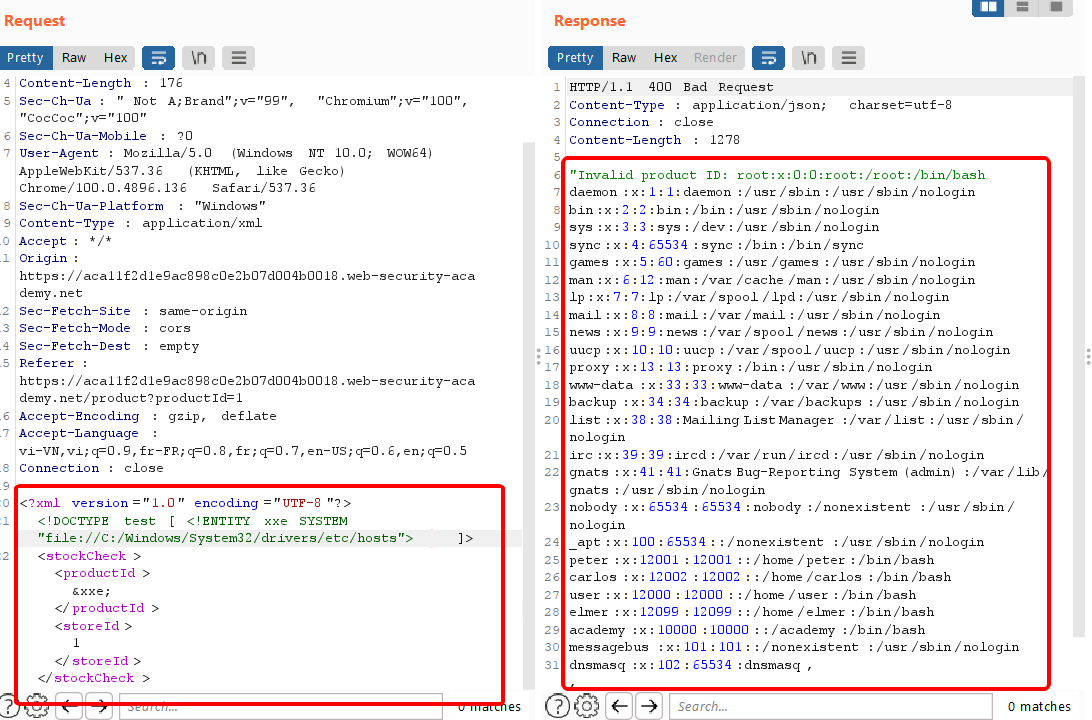
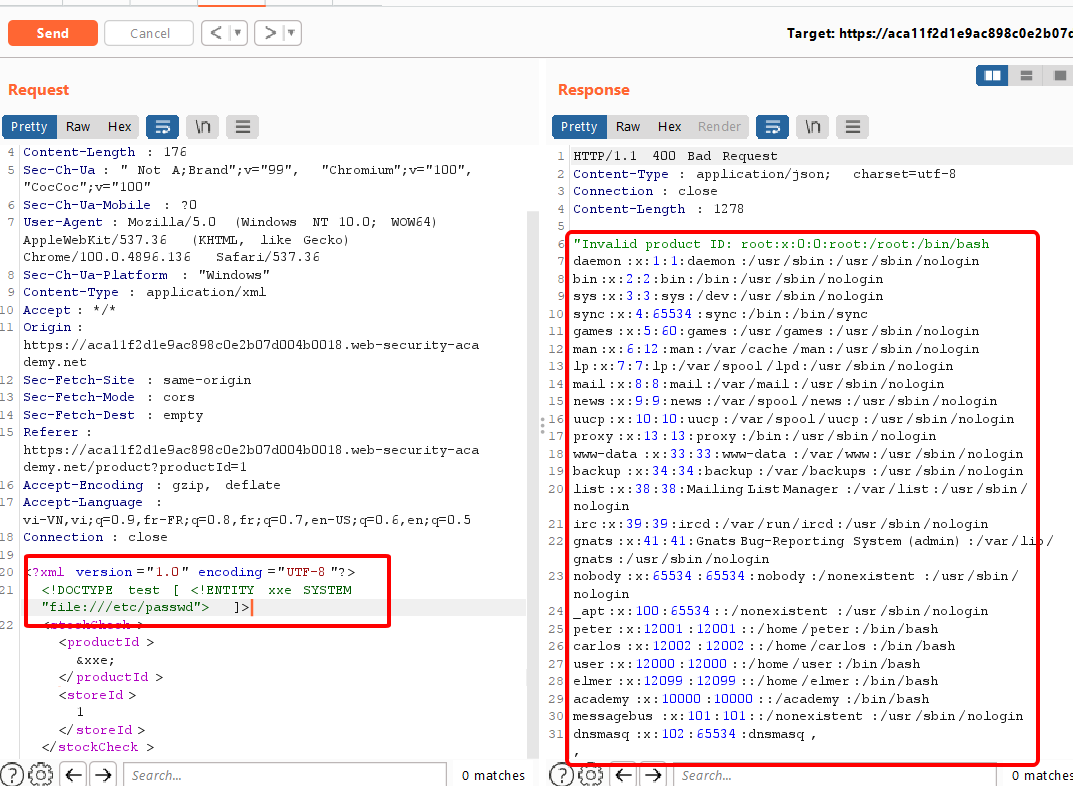
update lab xml

Changed region(s): [[0.0, 0.0, 1.0, 1.0], [0.3075, 0.1222, 0.4306, 0.1528], [0.3691, 0.275, 0.3998, 0.3056]]

diff --git a/readme.md b/readme.md
@@ -14,10 +14,11 @@ Mục lục:
 - Giả sử, tôi muốn kiểm tra số lượng hiện của 1 mặt hàng đang có trong kho của tôi. và kết quả ở hình dưới.
 ![Hình 1.](~/../img/1.png)
 
-- Giờ, tôi sẽ thử chèn thêm đoạn code sau `<!DOCTYPE test [ <!ENTITY xxe SYSTEM "file://C:/Windows/System32/drivers/etc/hosts"> ]>` vào xml và giá trị `productId` tôi sẽ thay bằng `&xxe;` để hiện kết quả lên (hình dưới).
+- Tôi sẽ thử chèn thêm đoạn code sau `<!DOCTYPE test [ <!ENTITY xxe "hallo"> ]>` vào xml và giá trị `productId` tôi sẽ thay bằng `&xxe;` để hiện kết quả lên (hình dưới).
+![Hình 3.](~/../img/3.png)
+
+- Ở trên chỉ là 1 phép thử nhỏ. Tiếp theo, tôi sẽ chèn thêm đoạn code sau `<!DOCTYPE test [ <!ENTITY xxe SYSTEM "file:///etc/passwd"> ]>` thay `hallo` bằng `SYSTEM "file:///etc/passwd"` và mọi thứ giữ nguyên. Kết quả (hình dưới).
 ![Hình 2.](~/../img/2.png)
-
-
 
 
 
